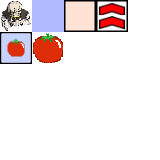
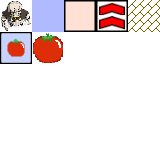
possibility of taking objects into the hands added

Changed region(s): [[0.8125, 0.0, 1.0, 0.2188], [0.9375, 0.1875, 0.9688, 0.2188]]

diff --git a/Overcooked/Player.cpp b/Overcooked/Player.cpp
@@ -1,13 +1,16 @@
 #include "Player.h"
 
-Player::Player(Texture& texture, IntRect _tileRect, float _x, float _y) : TiledObject(texture, _x, _y, _tileRect)
+Player::Player(Texture& texture, float _x, float _y, IntRect _tileRect, std::list<TiledObject*>& _objects) : 
+	TiledObject(texture, _x, _y, _tileRect), 
+	objects(_objects)
 {
 	state = States::STAY;
 
 	xSpeed = 0;
 	ySpeed = 0;
 
-	inHands = new TiledObject(texture, _x, _y, IntRect(32, 32, 32, 32));
+	//inHands = nullptr;
+	inHands = new TiledObject(texture, _x, _y, IntRect(32, 0, 32, 32));
 }
 
 void Player::update(float time)
@@ -29,7 +32,7 @@ void Player::update(float time)
 	case Player::States::RIGHT:
 		xSpeed = 0.1;
 		ySpeed = 0;
-		sprite.setRotation(-90);
+		sprite.setRotation(270);
 		break;
 	case Player::States::DOWN:
 		ySpeed = 0.1;
@@ -62,7 +65,26 @@ void Player::update(float time)
 	case Player::States::DOWN:
 		inHands->setPosition(x, y + inHands->getTileRect().height);
 		break;
-	case Player::States::STAY:
+	case Player::States::NEEDS_UPDATE:
+	{
+		switch (getRotation())
+		{
+		case Rotations::LEFT:
+			inHands->setPosition(x - inHands->getTileRect().width, y);
+			break;
+		case Rotations::UP:
+			inHands->setPosition(x, y - inHands->getTileRect().height);
+			break;
+		case Rotations::RIGHT:
+			inHands->setPosition(x + inHands->getTileRect().width, y);
+			break;
+		case Rotations::DOWN:
+			inHands->setPosition(x, y + inHands->getTileRect().height);
+			break;
+		default:
+			break;
+		}
+	}
 		break;
 	default:
 		break;
@@ -91,6 +113,12 @@ void Player::trackControls()
 		{
 			state = States::DOWN;
 		}
+		if (Keyboard::isKeyPressed(Keyboard::T))
+		{
+			std::cout << (int)x / 32 << " " << (int)y / 32 << "\n";
+			takeIntoHands();
+			state = States::NEEDS_UPDATE;
+		}
 	}
 }
 
@@ -99,7 +127,42 @@ Sprite Player::getSprite()
 	return sprite;
 }
 
-Sprite Player::getInHands()
+Sprite Player::getInHandsSprite()
 {
-	return inHands->getSprite();
+	if (inHands)
+		return inHands->getSprite();
+	else
+		return Sprite();
+}
+
+void Player::takeIntoHands()
+{
+	int playerXTile;
+	int playerYTile;
+	int objXTile;
+	int objYTile;
+	for (auto it = objects.begin(); it != objects.end(); ++it)
+	{
+		playerXTile = (x - 0) / 32;
+		playerYTile = (y - 0) / 32;
+		objXTile = ((*it)->getSprite().getPosition().x - 0) / 32;
+		objYTile = ((*it)->getSprite().getPosition().y - 0) / 32;
+		if ((getRotation() == Rotations::LEFT && playerXTile == objXTile + 1 && playerYTile == objYTile) ||
+			(getRotation() == Rotations::UP && playerXTile == objXTile && playerYTile == objYTile + 1) ||
+			(getRotation() == Rotations::RIGHT && playerXTile == objXTile - 1 && playerYTile == objYTile) ||
+			(getRotation() == Rotations::DOWN && playerXTile == objXTile && playerYTile == objYTile - 1))
+		{
+			delete inHands;
+			inHands = *it;
+			objects.erase(it);
+			break;
+		}
+		/*if ((int)(*it)->getSprite().getPosition().x / 32 == (int)x / 32 && (int)(*it)->getSprite().getPosition().y / 32 == (int)y / 32 + 1)
+		{
+			delete inHands;
+			inHands = *it;
+			objects.erase(it);
+			break;
+		}*/
+	}
 }

diff --git a/Overcooked/Map.cpp b/Overcooked/Map.cpp
@@ -14,10 +14,12 @@ Map::Map(Texture& texture) : width(10), height(10)
 	{
 		for (int j = 0; j < width; j++)
 		{
-			if(i == 0 || j == 0 || i == height - 1 || j == width - 1)
+			if (i == 0 && j == 5)
+				tileMap[i][j] = MapObjects::CHECKOUT;
+			else if (i == 0 || j == 0 || i == height - 1 || j == width - 1)
 				tileMap[i][j] = MapObjects::TABLE;
-			//if (i == 1 && j == 1)
-				//tileMap[i][j] = MapObjects::PLAYER;
+			else
+				tileMap[i][j] = MapObjects::FLOOR;
 		}
 	}
 }
@@ -29,14 +31,14 @@ void Map::repaint(RenderWindow& window)
 		for (int j = 0; j < width; j++)
 		{
 			if (tileMap[i][j] == MapObjects::TABLE)
-			{
 				sprite.setTextureRect(IntRect(64, 0, 32, 32));
-
-				sprite.setPosition(j * 32, i * 32);
-
-				window.draw(sprite);
-			}
+			else if (tileMap[i][j] == MapObjects::CHECKOUT)
+				sprite.setTextureRect(IntRect(96, 0, 32, 32));
+			else if(tileMap[i][j] == MapObjects::FLOOR)
+				sprite.setTextureRect(IntRect(128, 0, 32, 32));
 			
+			sprite.setPosition(j * 32, i * 32);
+			window.draw(sprite);
 		}
 	}
 }

diff --git a/Overcooked/Source.cpp b/Overcooked/Source.cpp
@@ -1,6 +1,8 @@
 #include <SFML/Graphics.hpp>
 #include "Player.h"
 #include "Map.h"
+#include "Food.h"
+#include <list>
 using namespace sf;
 
 int main()
@@ -10,7 +12,11 @@ int main()
     Texture t;
     t.loadFromFile("Images/tiles.png");
 
-    Player player(t, IntRect(0, 0, 32, 32), 16, 16);
+    std::list<TiledObject*> objects;
+
+    objects.push_back(new Food(t, 80, 80, IntRect(32, 32, 32, 32)));
+
+    Player player(t, 16, 16, IntRect(0, 0, 32, 32), objects);
 
     Map map(t);
 
@@ -38,8 +44,12 @@ int main()
         window.clear();
        // window.draw(s);
         map.repaint(window);
+        for (TiledObject* obj : objects)
+        {
+            window.draw(obj->getSprite());
+        }
         window.draw(player.getSprite());
-        window.draw(player.getInHands());
+        window.draw(player.getInHandsSprite());
         window.display();
     }
 

diff --git a/Overcooked/Player.h b/Overcooked/Player.h
@@ -1,21 +1,25 @@
 #pragma once
 #include <SFML/Graphics.hpp>
 #include "TiledObject.h"
+#include <list>
+#include <iostream>
 
 using namespace sf;
 
 class Player : public TiledObject
 {
 	TiledObject* inHands;
-	enum class States { LEFT, UP, RIGHT, DOWN, STAY };
+	enum class States { LEFT, UP, RIGHT, DOWN, STAY, NEEDS_UPDATE };
 	States state;
 	float xSpeed;
 	float ySpeed;
+	std::list<TiledObject*>& objects;
 public:
-	Player(Texture& texture, IntRect _tileRect, float _x, float _y);
+	Player(Texture& texture, float _x, float _y, IntRect _tileRect, std::list<TiledObject*>& _objects);
 	void update(float time);
 	void trackControls();
 	Sprite getSprite();
-	Sprite getInHands();
+	Sprite getInHandsSprite();
+	void takeIntoHands();
 };
 

diff --git a/Overcooked/TiledObject.cpp b/Overcooked/TiledObject.cpp
@@ -12,6 +12,7 @@ TiledObject::TiledObject(Texture& texture, float _x, float _y, IntRect _tileRect
 
 	x = _x;
 	y = _y;
+	sprite.setPosition(x, y);
 }
 
 Sprite TiledObject::getSprite()
@@ -27,4 +28,22 @@ void TiledObject::setPosition(float _x, float _y)
 IntRect TiledObject::getTileRect()
 {
 	return tileRect;
+}
+
+Rotations TiledObject::getRotation()
+{
+	std::cout << (int)sprite.getRotation() << "\n";
+	switch ((int)sprite.getRotation())
+	{
+	case 90:
+		return Rotations::LEFT;
+	case 180:
+		return Rotations::UP;
+	case 270:
+		return Rotations::RIGHT;
+	case 0:
+		return Rotations::DOWN;
+	default:
+		break;
+	}
 }

diff --git a/Overcooked/TiledObject.h b/Overcooked/TiledObject.h
@@ -1,7 +1,10 @@
 #pragma once
 #include <SFML/Graphics.hpp>
+#include <iostream>
 
 using namespace sf;
+
+enum class Rotations { LEFT, UP, RIGHT, DOWN };
 
 class TiledObject
 {
@@ -15,5 +18,6 @@ public:
 	Sprite getSprite();
 	void setPosition(float _x, float _y);
 	IntRect getTileRect();
+	Rotations getRotation();
 };
 

diff --git a/Overcooked/Map.h b/Overcooked/Map.h
@@ -9,7 +9,7 @@ class Map
 	const int width;
 	const int height;
 
-	enum class MapObjects { PLAYER, TABLE, CHECKOUT };
+	enum class MapObjects { PLAYER, TABLE, FLOOR, CHECKOUT };
 
 	MapObjects** tileMap;
 public:

diff --git a/Overcooked/Food.h b/Overcooked/Food.h
@@ -1,0 +1,8 @@
+#pragma once
+#include "TiledObject.h"
+class Food : public TiledObject
+{
+public:
+	Food(Texture& texture, float _x, float _y, IntRect _tileRect);
+};
+

diff --git a/Overcooked/Food.cpp b/Overcooked/Food.cpp
@@ -1,0 +1,5 @@
+#include "Food.h"
+
+Food::Food(Texture& texture, float _x, float _y, IntRect _tileRect) : TiledObject(texture, _x, _y, _tileRect)
+{
+}
